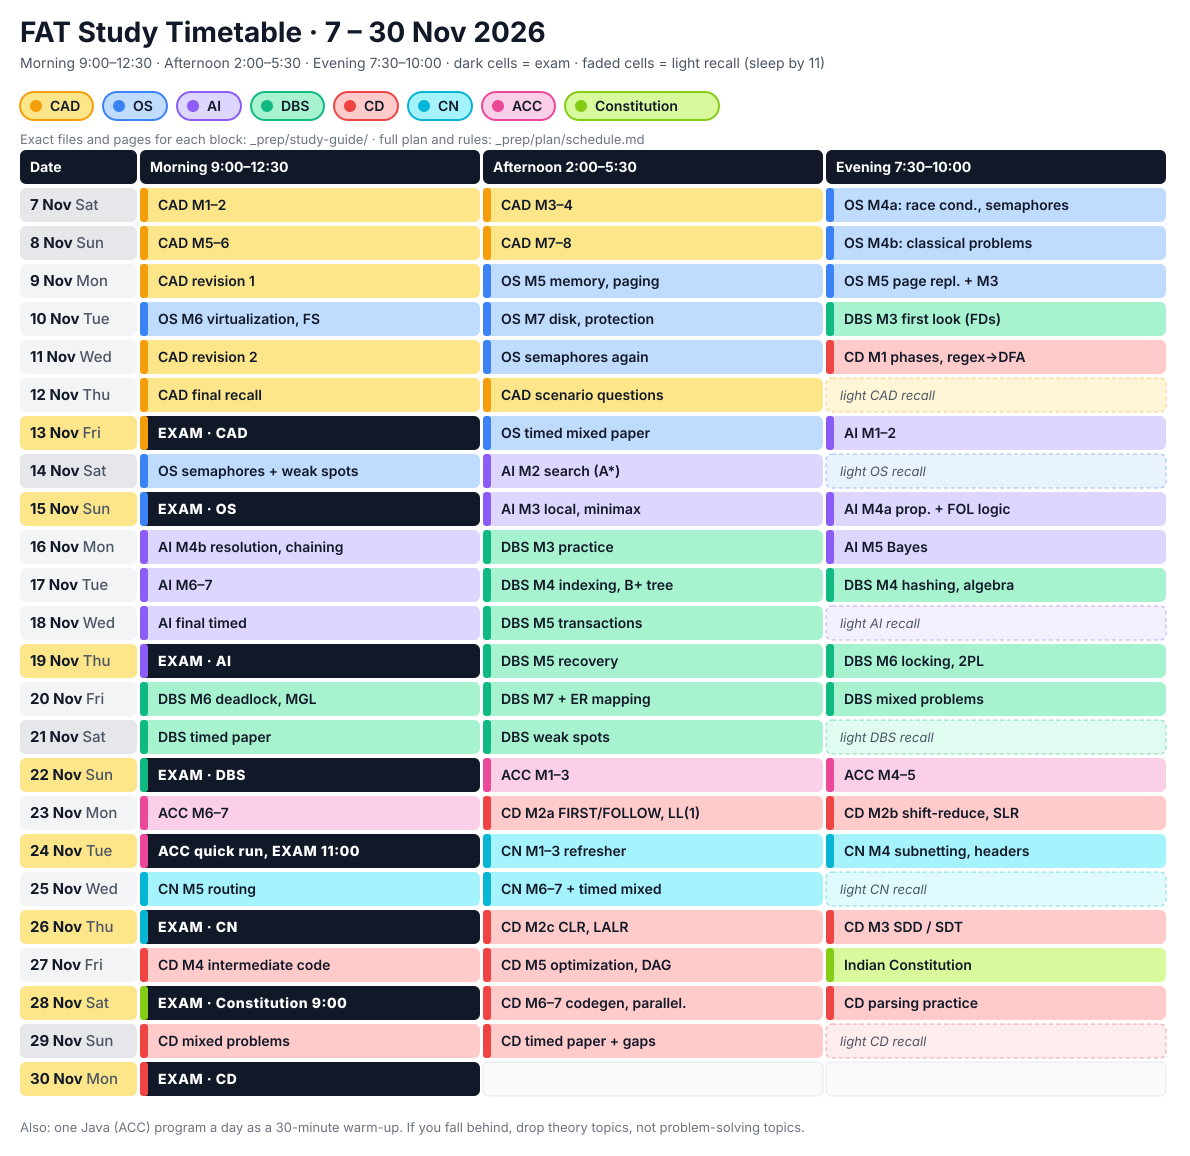
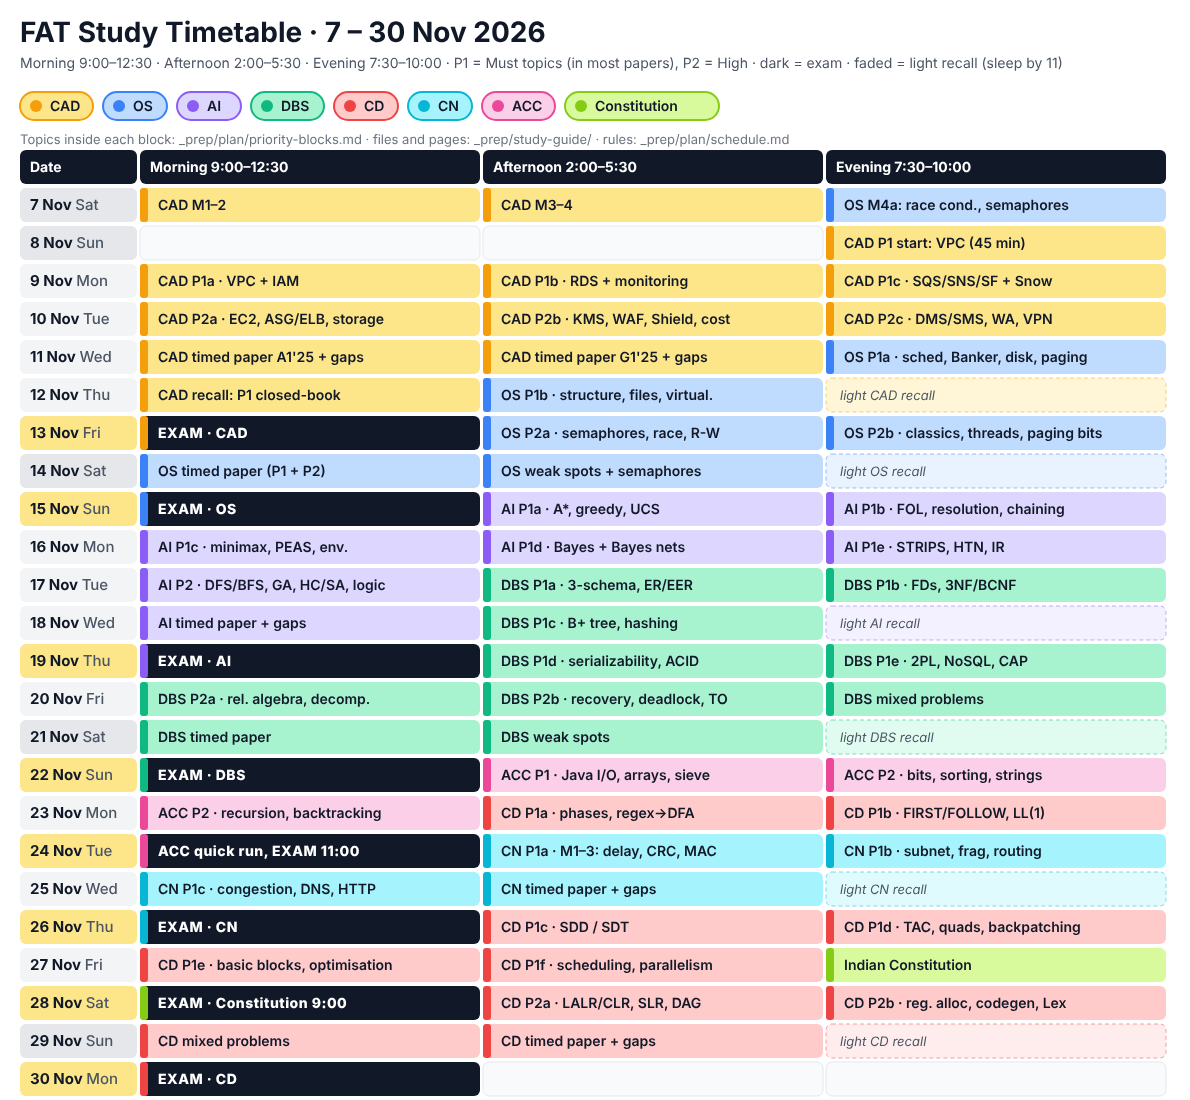
Priority-first study blocks: reorder schedule, add per-block topic checklist
Claude-Session: https://claude.ai/code/session_01UsHAaLtVcdXfaXgrSfKWqe

diff --git a/_prep/plan/schedule.md b/_prep/plan/schedule.md
@@ -1,6 +1,6 @@
 # FAT study schedule: 7 Nov to 30 Nov 2026
 
-Last updated: Fri 6 Nov 2026, 23:10 IST. Owner: V C Pavitran. Edit this file when the plan changes (and note why at the bottom).
+Last updated: Sun 8 Nov 2026, 22:45 IST (priority-first version). Owner: V C Pavitran. Edit this file when the plan changes (and note why at the bottom).
 
 ## Exam dates (FAT, all FN)
 | Date | Course | Time |
@@ -17,6 +17,13 @@ Last updated: Fri 6 Nov 2026, 23:10 IST. Owner: V C Pavitran. Edit this file whe
 ## Daily rhythm (assumes about 8-9 effective hours a day; adjust if less)
 Morning 9:00-12:30, Afternoon 2:00-5:30, Evening 7:30-10:00. On exam days the exam is the morning and the afternoon and evening go to the next subject. The evening before each exam is light (1-1.5 hours of formulas and recall), then sleep by 11. Each block: 10 min orient, about 90 min learn, 60+ min solve problems, 15 min closed-book recall.
 
+## Priority rule (read this first)
+Every subject is studied in tiers, using `_prep/analysis/important-topics.html`:
+- **P1 = Must**: topics asked in about 65% or more of that subject's FAT papers. Studied first, in the first blocks of the subject.
+- **P2 = High**: asked in 40-65% of papers. Studied after P1 is done.
+- **P3 = Medium/Low**: only if time is left after the timed paper. Skipped by default.
+The exact topic list of every block (with tick boxes) is in `priority-blocks.md`. Do P1 before P2, and a subject's timed paper before any P3.
+
 ## Schedule
 
 ![FAT study timetable](timetable.svg)
@@ -28,39 +35,41 @@ Legend: 🟧 CAD 🟦 OS 🟪 AI 🟩 DBS 🟥 CD 🟨 CN 🟫 ACC ⬜ Constitut
 | Date | Morning 9:00–12:30 | Afternoon 2:00–5:30 | Evening 7:30–10:00 |
 |---|---|---|---|
 | 7 Nov Sat | 🟧 CAD M1–2 | 🟧 CAD M3–4 | 🟦 OS M4a: race cond., semaphores |
-| 8 Nov Sun | 🟧 CAD M5–6 | 🟧 CAD M7–8 | 🟦 OS M4b: classical problems |
-| 9 Nov Mon | 🟧 CAD revision 1 | 🟦 OS M5 memory, paging | 🟦 OS M5 page repl. + M3 |
-| 10 Nov Tue | 🟦 OS M6 virtualization, FS | 🟦 OS M7 disk, protection | 🟩 DBS M3 first look (FDs) |
-| 11 Nov Wed | 🟧 CAD revision 2 | 🟦 OS semaphores again | 🟥 CD M1 phases, regex→DFA |
-| 12 Nov Thu | 🟧 CAD final recall | 🟧 CAD scenario questions | 🟧 _light CAD recall_ |
-| **13 Nov Fri** | ⬛ **EXAM · CAD** | 🟦 OS timed mixed paper | 🟪 AI M1–2 |
-| 14 Nov Sat | 🟦 OS semaphores + weak spots | 🟪 AI M2 search (A*) | 🟦 _light OS recall_ |
-| **15 Nov Sun** | ⬛ **EXAM · OS** | 🟪 AI M3 local, minimax | 🟪 AI M4a prop. + FOL logic |
-| 16 Nov Mon | 🟪 AI M4b resolution, chaining | 🟩 DBS M3 practice | 🟪 AI M5 Bayes |
-| 17 Nov Tue | 🟪 AI M6–7 | 🟩 DBS M4 indexing, B+ tree | 🟩 DBS M4 hashing, algebra |
-| 18 Nov Wed | 🟪 AI final timed | 🟩 DBS M5 transactions | 🟪 _light AI recall_ |
-| **19 Nov Thu** | ⬛ **EXAM · AI** | 🟩 DBS M5 recovery | 🟩 DBS M6 locking, 2PL |
-| 20 Nov Fri | 🟩 DBS M6 deadlock, MGL | 🟩 DBS M7 + ER mapping | 🟩 DBS mixed problems |
+| 8 Nov Sun |  |  | 🟧 CAD P1 start: VPC (45 min) |
+| 9 Nov Mon | 🟧 CAD P1a · VPC + IAM | 🟧 CAD P1b · RDS + monitoring | 🟧 CAD P1c · SQS/SNS/SF + Snow |
+| 10 Nov Tue | 🟧 CAD P2a · EC2, ASG/ELB, storage | 🟧 CAD P2b · KMS, WAF, Shield, cost | 🟧 CAD P2c · DMS/SMS, WA, VPN |
+| 11 Nov Wed | 🟧 CAD timed paper A1'25 + gaps | 🟧 CAD timed paper G1'25 + gaps | 🟦 OS P1a · sched, Banker, disk, paging |
+| 12 Nov Thu | 🟧 CAD recall: P1 closed-book | 🟦 OS P1b · structure, files, virtual. | 🟧 _light CAD recall_ |
+| **13 Nov Fri** | ⬛ **EXAM · CAD** | 🟦 OS P2a · semaphores, race, R-W | 🟦 OS P2b · classics, threads, paging bits |
+| 14 Nov Sat | 🟦 OS timed paper (P1 + P2) | 🟦 OS weak spots + semaphores | 🟦 _light OS recall_ |
+| **15 Nov Sun** | ⬛ **EXAM · OS** | 🟪 AI P1a · A*, greedy, UCS | 🟪 AI P1b · FOL, resolution, chaining |
+| 16 Nov Mon | 🟪 AI P1c · minimax, PEAS, env. | 🟪 AI P1d · Bayes + Bayes nets | 🟪 AI P1e · STRIPS, HTN, IR |
+| 17 Nov Tue | 🟪 AI P2 · DFS/BFS, GA, HC/SA, logic | 🟩 DBS P1a · 3-schema, ER/EER | 🟩 DBS P1b · FDs, 3NF/BCNF |
+| 18 Nov Wed | 🟪 AI timed paper + gaps | 🟩 DBS P1c · B+ tree, hashing | 🟪 _light AI recall_ |
+| **19 Nov Thu** | ⬛ **EXAM · AI** | 🟩 DBS P1d · serializability, ACID | 🟩 DBS P1e · 2PL, NoSQL, CAP |
+| 20 Nov Fri | 🟩 DBS P2a · rel. algebra, decomp. | 🟩 DBS P2b · recovery, deadlock, TO | 🟩 DBS mixed problems |
 | 21 Nov Sat | 🟩 DBS timed paper | 🟩 DBS weak spots | 🟩 _light DBS recall_ |
-| **22 Nov Sun** | ⬛ **EXAM · DBS** | 🟫 ACC M1–3 | 🟫 ACC M4–5 |
-| 23 Nov Mon | 🟫 ACC M6–7 | 🟥 CD M2a FIRST/FOLLOW, LL(1) | 🟥 CD M2b shift-reduce, SLR |
-| **24 Nov Tue** | ⬛ **ACC quick run, EXAM 11:00** | 🟨 CN M1–3 refresher | 🟨 CN M4 subnetting, headers |
-| 25 Nov Wed | 🟨 CN M5 routing | 🟨 CN M6–7 + timed mixed | 🟨 _light CN recall_ |
-| **26 Nov Thu** | ⬛ **EXAM · CN** | 🟥 CD M2c CLR, LALR | 🟥 CD M3 SDD / SDT |
-| 27 Nov Fri | 🟥 CD M4 intermediate code | 🟥 CD M5 optimization, DAG | ⬜ Indian Constitution |
-| **28 Nov Sat** | ⬛ **EXAM · Constitution 9:00** | 🟥 CD M6–7 codegen, parallel. | 🟥 CD parsing practice |
+| **22 Nov Sun** | ⬛ **EXAM · DBS** | 🟫 ACC P1 · Java I/O, arrays, sieve | 🟫 ACC P2 · bits, sorting, strings |
+| 23 Nov Mon | 🟫 ACC P2 · recursion, backtracking | 🟥 CD P1a · phases, regex→DFA | 🟥 CD P1b · FIRST/FOLLOW, LL(1) |
+| **24 Nov Tue** | ⬛ **ACC quick run, EXAM 11:00** | 🟨 CN P1a · M1–3: delay, CRC, MAC | 🟨 CN P1b · subnet, frag, routing |
+| 25 Nov Wed | 🟨 CN P1c · congestion, DNS, HTTP | 🟨 CN timed paper + gaps | 🟨 _light CN recall_ |
+| **26 Nov Thu** | ⬛ **EXAM · CN** | 🟥 CD P1c · SDD / SDT | 🟥 CD P1d · TAC, quads, backpatching |
+| 27 Nov Fri | 🟥 CD P1e · basic blocks, optimisation | 🟥 CD P1f · scheduling, parallelism | ⬜ Indian Constitution |
+| **28 Nov Sat** | ⬛ **EXAM · Constitution 9:00** | 🟥 CD P2a · LALR/CLR, SLR, DAG | 🟥 CD P2b · reg. alloc, codegen, Lex |
 | 29 Nov Sun | 🟥 CD mixed problems | 🟥 CD timed paper + gaps | 🟥 _light CD recall_ |
 | **30 Nov Mon** | ⬛ **EXAM · CD** |  |  |
 
 Also: one ACC (Java) program a day as a 30-minute warm-up from 7 Nov.
 
-## Block counts (full study blocks)
-CAD 8, OS 9, AI 8, DBS 12, ACC 3 (+ daily warm-ups), CN 4, CD 11, Indian Constitution 1.
+## Block counts (full study blocks, from 9 Nov)
+CAD 8 (+ 2 recall), OS 6, AI 8, DBS 10, ACC 3 (+ daily warm-ups), CN 3, CD 11, Indian Constitution 1. OS and CN were trimmed from the first version because their P1 topics are mostly numericals you already do well.
 
 ## Rules for adjusting
-- If you fall behind, drop the Remember/Understand-level theory topics, not the problem-solving topics.
-- Do not shift the whole schedule when one block is lost: cut the lowest-value topic of the next block instead.
+- If you fall behind, cut the P2 topics of the next block (and P3 always). Never cut P1.
+- Do not shift the whole schedule when one block is lost: cut the lowest-priority topic of the next block instead.
+- A block ends when its time is over, even if the checklist is not finished. Tick what you did, move on, and fix the rest in the subject's timed-paper / weak-spots block.
 - Per-subject block guides (exact files and pages) live in `_prep/study-guide/`. PYQ question indexes live in `_prep/pyq-index/`.
 
 ## Change log
 - 6 Nov 23:10: first version. Built from the 7 syllabi, the FAT timetable, and self-ratings (see `context.md`). Block counts rebalanced after learning CN and OS numericals are strong and DBS, CD, OS semaphores are weak.
+- 8 Nov 22:45: priority-first rewrite after losing 8 Nov. P1 (Must) blocks come first in every subject, then P2, then the timed paper. CAD now takes all of 9-12 Nov; OS starts Wed 11 Nov evening; the CD and DBS starts moved later but their P1 topics all finish well before the exam. Topic lists per block are in `priority-blocks.md`.

diff --git a/_prep/plan/priority-blocks.md b/_prep/plan/priority-blocks.md
@@ -1,0 +1,103 @@
+# Priority blocks: what exactly goes in each block
+
+Use this file when you sit down: open the block, work the list top to bottom, tick it. P1 = Must (asked in most papers), P2 = High. Paper + question numbers for every topic are in `_prep/analysis/important-topics.html` (tab "Every topic in every paper"). Slides and page numbers are in `_prep/study-guide/`.
+A block ends when its time is up. Do not extend it. Whatever is unticked goes to that subject's weak-spots block.
+Start rule: 25 minutes on the first item, phone away. Then decide.
+
+## CAD (exam Fri 13 Nov)
+Answer shape for every question: requirement, services, small diagram, one line of "why" per requirement.
+- **P1a Mon 9 AM**
+  - [ ] VPC: public/private subnet, IGW, NAT, route tables (5 of 5 papers). Draw the standard diagram twice.
+  - [ ] IAM: users, groups, roles, policies, MFA, least privilege (4/5)
+  - [ ] Shared responsibility model (2/5)
+- **P1b Mon 9 PM**
+  - [ ] RDS Multi-AZ vs Read Replica (4/5)
+  - [ ] RDS vs Aurora vs DynamoDB choice (3/5)
+  - [ ] CloudWatch + CloudTrail + Config together (4/5)
+- **P1c Mon 9 Eve**
+  - [ ] SQS, SNS, Step Functions, SWF (4/5)
+  - [ ] Snow family: Snowball, Snowball Edge, Snowmobile, when to use each (4/5)
+- **P2a Tue 10 AM**
+  - [ ] EC2 launch steps (9), instance types, lifecycle (2/5)
+  - [ ] Auto Scaling + ELB (3/5)
+  - [ ] Storage choice: S3, EBS, EFS, Glacier, lifecycle (3/5)
+- **P2b Tue 10 PM**
+  - [ ] KMS and encryption types (3/5)
+  - [ ] WAF rules, Shield (3/5 each)
+  - [ ] Cost control: Budgets, Cost Explorer, Trusted Advisor (3/5)
+- **P2c Tue 10 Eve**
+  - [ ] DMS + Schema Conversion Tool, Server Migration Service (3/5 each)
+  - [ ] Well-Architected pillars and HA design (2/5)
+  - [ ] Security group vs NACL, VPN / Direct Connect / peering, CloudFront (2/5)
+  - [ ] Systems Manager + Config remediation (2/5), NIST definition and global infrastructure (2/5)
+- **Wed 11 AM and PM**: two timed papers (A1'25, then G1'25), 3 hours each is too long, so do 5 questions in 90 min, then fix gaps.
+- **Thu 12 AM**: close the notes, write the 6 P1 topics from memory, then pick which either/or questions you will choose (see `_prep/analysis/CAD.md`).
+
+## OS (exam Sun 15 Nov)
+- **P1a Wed 11 Eve** (numericals you already do well, keep it fast)
+  - [ ] CPU scheduling: Gantt, WT, TAT (7/7)
+  - [ ] Banker's algorithm and deadlock detection (7/7)
+  - [ ] Disk scheduling total head movement (7/7)
+  - [ ] Page replacement FIFO / LRU / Optimal (5/7)
+- **P1b Thu 12 PM** (theory Must)
+  - [ ] OS structure, design issues, services (7/7)
+  - [ ] File allocation methods (5/7)
+  - [ ] Virtualisation and hypervisors (5/7)
+- **P2a Fri 13 PM** (your panic topic)
+  - [ ] Critical section, Peterson, Test-and-Set (4/7)
+  - [ ] Readers-writers (3/7)
+  - [ ] Race condition with a worked example (3/7)
+- **P2b Fri 13 Eve**
+  - [ ] Barber, dining philosophers and other classics (3/7)
+  - [ ] Process vs thread, PCB, states, system calls (4/7); fork() / pthreads programs (3/7)
+  - [ ] Paging address bits, page-table size (3/7); fragmentation, segmentation (3/7)
+  - [ ] Access matrix, ACL, capability lists (3/7)
+- **Sat 14**: timed paper (AM), weak spots + semaphores again (PM), light recall (Eve).
+
+## AI (exam Thu 19 Nov)
+- **P1a Sun 15 PM**: Greedy best-first and A* on a graph (5/6); Uniform-cost search (P2, 3/6)
+- **P1b Sun 15 Eve**: FOL sentences and resolution proof (5/6); forward / backward chaining (4/6)
+- **P1c Mon 16 AM**: Minimax and alpha-beta (4/6); PEAS for a scenario (4/6); environment properties (P2, 3/6)
+- **P1d Mon 16 PM**: Bayes theorem numericals (4/6); Bayesian network inference (4/6)
+- **P1e Mon 16 Eve**: STRIPS representation / plan (5/6); HTN planning (4/6); information retrieval and ranking (4/6)
+- **P2 Tue 17 AM**: DFS / BFS / IDDFS (3/6); genetic algorithm (3/6); hill climbing and simulated annealing (3/6); propositional logic rules, truth table, CNF (3/6); English to FOL (3/6)
+- **Wed 18 AM**: timed paper, then fix gaps. Do not start P3 topics before this.
+
+## DBS (exam Sun 22 Nov)
+Say the word and I will teach each block step by step with your slides' notation. FDs and normalisation are the first thing to get help with.
+- **P1a Tue 17 PM**: three-schema architecture and data independence (4/4); ER / EER design from a scenario (4/4); generalisation, specialisation, aggregation (3/4)
+- **P1b Tue 17 Eve**: normalisation to 3NF / BCNF with FDs (4/4). Start from closure of attributes and candidate keys.
+- **P1c Wed 18 PM**: B+ tree insertion and deletion (3/4); hashing: static, extendible, double hashing, probing (3/4)
+- **P1d Thu 19 PM**: serializability, precedence graph, recoverability, ACID (4/4)
+- **P1e Thu 19 Eve**: two-phase locking strict / rigorous (3/4); NoSQL types and CAP theorem (4/4)
+- **P2a Fri 20 AM**: relational algebra queries (2/4); lossless and dependency-preserving decomposition (2/4)
+- **P2b Fri 20 PM**: recovery: log-based, deferred / immediate, shadow paging (2/4); deadlock: wait-for graph, wait-die / wound-wait (2/4); timestamp ordering, Thomas write rule (2/4)
+- **Fri 20 Eve and Sat 21**: mixed problems, timed paper, weak spots.
+
+## ACC (practical Tue 24 Nov, 11:00-12:30)
+No papers exist, so this is a guess from the syllabus. Warm-up every day from now: one Java program, 30 minutes, written from a blank file.
+- **P1 Sun 22 PM**: Java I/O, loops and class structure; arrays (max product subarray, leaders, majority element); sieve
+- **P2 Sun 22 Eve**: bit tricks and GCD; quick sort and selection sort; string problems (palindromes, weighted substring)
+- **P2 Mon 23 AM**: recursion and backtracking (N-Queens, maze, permutations); activity selection and Kruskal if time
+
+## CN (exam Thu 26 Nov)
+You know most numericals, so this is mostly a fast pass with timed practice.
+- **P1a Tue 24 PM**: topology and OSI / TCP-IP layers (3/3); circuit vs packet switching and delay numericals (3/3); error detection: parity, CRC, checksum, Hamming (2/3); CSMA/CD, CSMA/CA, ALOHA (2/3)
+- **P1b Tue 24 Eve**: subnetting, VLSM, CIDR (2/3); IPv4 fragmentation with MTU (2/3); distance vector, count-to-infinity (2/3); link state, Dijkstra (2/3)
+- **P1c Wed 25 AM**: congestion control, leaky and token bucket (2/3); DNS, HTTP, email (3/3)
+- **Wed 25 PM**: timed paper + gaps. Evening: light recall.
+
+## CD (exam Mon 30 Nov)
+Order matters here because later topics build on earlier ones. All P1 are done by Fri 27 PM, with 3 days spare.
+- **P1a Mon 23 PM**: phases of a compiler on a code snippet (6/7); regex to DFA by direct method (P2, 4/7)
+- **P1b Mon 23 Eve**: FIRST, FOLLOW and LL(1) table (5/7)
+- **P1c Thu 26 PM**: SDD / SDT, attribute grammars (7/7)
+- **P1d Thu 26 Eve**: three-address code, quadruples, triples, indirect triples (6/7); backpatching (5/7)
+- **P1e Fri 27 AM**: basic blocks and flow graph (7/7); identify and apply optimisation techniques (5/7)
+- **P1f Fri 27 PM**: instruction scheduling, software pipelining, parallelism (6/7)
+- **P2a Sat 28 PM**: LALR(1) / CLR(1) items and table (4/7); SLR(1) table and conflicts (3/7); DAG of a basic block (3/7)
+- **P2b Sat 28 Eve**: register allocation (4/7); code generator design issues (3/7); Lex program, Thompson NFA (3/7)
+- **Sun 29**: mixed problems, timed paper + gaps, light recall.
+
+## Indian Constitution (exam Sat 28 Nov, 1 hour)
+- **Fri 27 Eve**: one block across Weeks 1-6. Priority guess (no papers): Preamble and features, Fundamental Rights and Duties first, then DPSP, Parliament, state executive and judiciary, local government.
